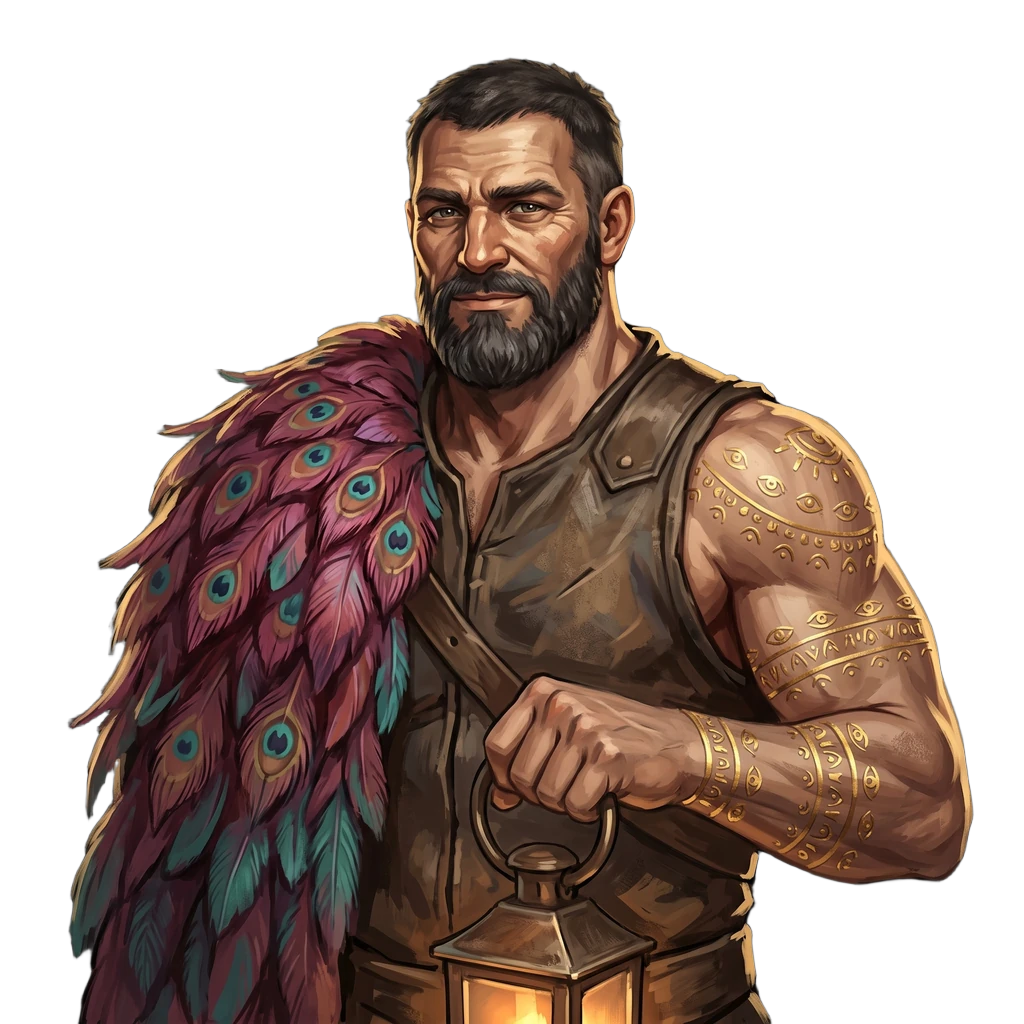
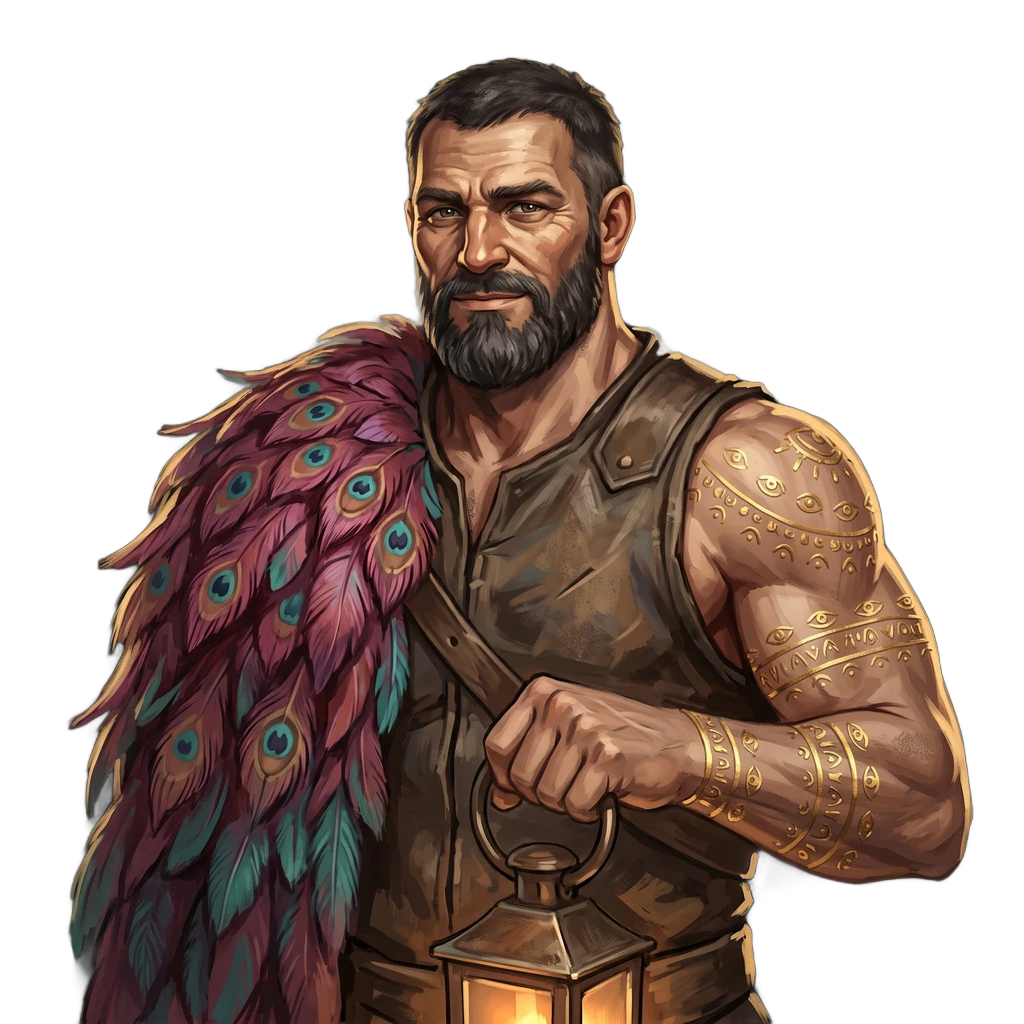
wip(#62): portraits cut, plaque marks, compact fixes

diff --git a/src/fleet/wall.css b/src/fleet/wall.css
@@ -289,20 +289,22 @@ button:focus-visible { outline: 2px solid var(--card-focus); outline-offset: 2px
 .has-figure .portrait .face { display: none; }
 .card:not(.has-figure) .portrait { position: absolute; left: 40px; top: 32px; }
 .marks { display: none; }
+/* A small gilded plaque at the figure's foot. */
 .has-figure .marks:not(:empty) {
   position: absolute;
   z-index: 2;
-  left: var(--fig-left);
+  left: calc(var(--fig-left) + var(--fig) / 2);
   bottom: 0;
-  width: var(--fig);
+  translate: -50% 0;
   display: flex;
-  justify-content: center;
   align-items: center;
   gap: 3px;
-  height: 22px;
+  height: 20px;
+  padding: 0 var(--space-3);
   background: var(--plinth-bg);
-  border-top: 1px solid var(--band-line);
-  box-shadow: 0 -6px 10px var(--plinth-bg);
+  border: 1px solid var(--band-line);
+  border-bottom: 0;
+  border-radius: 6px 6px 0 0;
   pointer-events: none;
 }
 .marks svg { width: 22px; height: 12px; overflow: visible; }
@@ -497,9 +499,10 @@ button:focus-visible { outline: 2px solid var(--card-focus); outline-offset: 2px
 [data-density="compact"] .card header,
 [data-density="compact"] .card .actions,
 [data-density="compact"] .card .foot { display: contents; }
-[data-density="compact"] .name { margin-left: var(--head-gap); font-size: 16px; }
+/* Compact keeps its own name face: the band's capitals run too wide beside the pill. */
+[data-density="compact"] .name { margin-left: var(--head-gap); font: 650 16px/1.15 var(--display); letter-spacing: -0.01em; }
 [data-density="compact"] .stage,
-[data-density="compact"] .marks,
+[data-density="compact"] .has-figure .marks:not(:empty),
 [data-density="compact"] .epithet,
 [data-density="compact"] .figure { display: none; }
 /* Compact keeps the round portrait and its ring; the look button covers it. */

diff --git a/src/fleet-style.test.js b/src/fleet-style.test.js
@@ -323,6 +323,7 @@ test("on a figure the crew rides the plinth and the ring steps aside; the waves 
   assert.match(css, /\.has-figure \.portrait \.ring,\s*\.has-figure \.portrait \.face \{ display: none; \}/);
   assert.match(css, /\[data-density="compact"\] \.has-figure \.portrait \.ring,\s*\[data-density="compact"\] \.has-figure \.portrait \.face \{ display: block; \}/);
   assert.match(css, /\.marks \{[^}]*display: none;/, "no marks unless a figure shows");
+  assert.match(css, /\[data-density="compact"\] \.has-figure \.marks:not\(:empty\),[^{]*\{ display: none; \}/, "nor on a compact card, whose ring shows them");
   const figure = css.match(/\n\.has-figure \.look \{([^}]*)\}/)?.[1] ?? "";
   const portrait = css.match(/\n\.has-figure \.aura \{([^}]*)\}/)?.[1] ?? "";
   assert.ok(Number(figure.match(/z-index: (-?\d+)/)[1]) > Number(portrait.match(/z-index: (-?\d+)/)[1]), "waves behind the figure");

diff --git a/scripts/cutout-portraits.py b/scripts/cutout-portraits.py
@@ -1,11 +1,12 @@
 """Cut a portrait's figure out of its painted backdrop, for the wall's header band.
 
 The ten kourai portraits ship with transparent cut-outs; the newer ones are
-painted on a dark backdrop. This runs BiRefNet (MIT, rembg's
-`birefnet-portrait` model) once on kourai-khryseai's 2048 px original
-(assets/avatars/originals/<name>.jpg) scaled to 1024 px, and writes
-assets/portraits/<name>-cutout.webp, which is committed, so
-scripts/cut-portraits.py needs no model. About ten minutes a portrait on CPU.
+painted on a dark backdrop. This runs rembg's `isnet-anime` model (IS-Net
+trained on illustrated characters, SkyTNT/anime-segmentation, Apache-2.0)
+once on kourai-khryseai's 2048 px original (assets/avatars/originals/<name>.jpg)
+scaled to 1024 px, and writes assets/portraits/<name>-cutout.webp, which is
+committed, so scripts/cut-portraits.py needs no model. About 3 s and 1.2 GB a
+portrait on CPU; BiRefNet cut as cleanly but needed over 3.5 GB.
 
 Usage: uv run --no-project --with "rembg[cpu]==2.0.85" --with pillow==12.3.0 python -I scripts/cutout-portraits.py <kourai-khryseai> <name>...
 """
@@ -21,7 +22,7 @@ PORTRAITS = ROOT / "assets" / "portraits"
 
 
 def main(kourai: Path, names: list[str]) -> None:
-    session = new_session("birefnet-portrait")
+    session = new_session("isnet-anime")
     for name in names:
         original = Image.open(kourai / "assets" / "avatars" / "originals" / f"{name}.jpg").convert("RGB")
         if original.size != (2048, 2048):

diff --git a/scripts/cut-portraits.py b/scripts/cut-portraits.py
@@ -58,7 +58,7 @@ FIGURE_SOURCE = (
 )
 NEW_FIGURE_SOURCE = (
     "AJ Barea, generated from the briefs in docs/characters/portrait-briefs.md; cut out of its backdrop "
-    "with BiRefNet (MIT, https://github.com/ZhengPeng7/BiRefNet) as assets/portraits/{name}-cutout.webp, "
+    "by scripts/cutout-portraits.py (rembg isnet-anime, Apache-2.0) as assets/portraits/{name}-cutout.webp, "
     "scaled to {size} px"
 )
 FULL_SOURCE = "kourai-khryseai assets/avatars/vn/{name}_neutral.png (https://github.com/ajbarea/kourai-khryseai), whole, {size} px"

diff --git a/scripts/test_wall_browser.py b/scripts/test_wall_browser.py
@@ -331,6 +331,12 @@ def band_clear(wall):
         )
         wall.check(not bad, f"band clear at {width}", bad)
         page.close()
+    page = wall.open(945, 1000, 16)
+    shown = page.evaluate(
+        "[...document.querySelectorAll('.marks, .stage, .epithet')].filter((e) => e.getBoundingClientRect().height > 0).length"
+    )
+    wall.check(shown == 0, "a compact card shows no band, epithet or plinth", shown)
+    page.close()
 
 
 def main() -> int:

diff --git a/IMPL.md b/IMPL.md
@@ -7,26 +7,27 @@ on the local branch `mock/card-theming-looks` (reference only). The plan of
 record is the #62 comment of 10-21.
 
 ## Tasks
-1. 📋 Cast: `epithet` and `head` [x, y, r] (fractions of the figure) per
+1. ✅ Cast: `epithet` and `head` [x, y, r] (fractions of the figure) per
    character; tests pin both.
-2. 📋 Assets: `scripts/cut-portraits.py` writes `<face>-figure.webp` (half-figure
+2. ✅ Assets: `scripts/cut-portraits.py` writes `<face>-figure.webp` (half-figure
    cut-out) and `<face>-full.webp` (#44's full portrait) with LICENSES entries.
    Ten kourai figures come from the kourai transparent PNGs; the five newer
-   ones from BiRefNet cut-outs committed as `assets/portraits/<name>-cutout.webp`
-   (`scripts/cutout-portraits.py`, run once).
-3. 📋 Model: `identity` adds epithet, figure, full; `card` adds `accentInk`
+   ones from isnet-anime cut-outs committed as `assets/portraits/<name>-cutout.webp`
+   (`scripts/cutout-portraits.py`, run once). BiRefNet needed over 3.5 GB a
+   run; two at once likely took WSL down on 10-21. isnet-anime: 3 s, 1.2 GB.
+3. ✅ Model: `identity` adds epithet, figure, full; `card` adds `accentInk`
    (`readableOn` in contrast.js), and the crew marks (`crewKinds`, shared with
    the ring).
-4. 📋 Band (wall.css, wall.html, wall.js): stage light capped under text, the
+4. ✅ Band (wall.css, wall.html, wall.js): stage light capped under text, the
    figure breaking the top edge, Cinzel nameplate, epithet with sprig, pill in
    the corner, crew marks on a plinth (the ring stays for medallions and
    Compact), speaking waves behind the head, needs amber light, dim light on
    quiet cards, arrival via `@starting-style`.
-5. 📋 #44 dialog: `.look` button on the figure (on the face in Compact), native
+5. ✅ #44 dialog: `.look` button on the figure (on the face in Compact), native
    `<dialog>`, focus back to the button or the wall.
-6. 📋 Compact: face 56 -> 68 px spanning header and meta, if the fit holds.
-7. 📋 Hesychia rotates now (keryx 0.9.3): README, `fleet-cast.test.js`, briefs.
-8. 📋 Docs, screenshots of all 15 at 1920 and 945, review, PR (Closes #62, #44),
+6. ✅ Compact: face 56 -> 64 px (fit bottoms 963 and 984 px); the name keeps its own face.
+7. ✅ Hesychia rotates now (keryx 0.9.3): README, `fleet-cast.test.js`, briefs.
+8. 📋 Docs ✅; screenshots of all 15 at 1920 and 945, review, PR (Closes #62, #44),
    merge, deploy, live check.
 
 ## Verify

diff --git a/README.md b/README.md
@@ -562,8 +562,8 @@ The portraits are files in `src/fleet/faces`, each listed in `LICENSES.json`,
 and `scripts/cut-portraits.py` cuts them: ten from kourai-khryseai, five from
 `assets/portraits/`. Each character has a round face at 96 and 192 px, a
 half-figure (`-figure.webp`) and the whole portrait (`-full.webp`). The five
-newer figures are cut from their painted backdrops by BiRefNet (MIT) through
-`scripts/cutout-portraits.py`, run once; its output is committed. The medallion is
+newer figures are cut from their painted backdrops by `scripts/cutout-portraits.py`
+(rembg's `isnet-anime` model, Apache-2.0), run once; its output is committed. The medallion is
 an SVG drawn in `src/fleet/medallion.js`. The overlay loads no library and
 fetches nothing.
 

diff --git a/ROADMAP.md b/ROADMAP.md
@@ -26,6 +26,10 @@ session that stops answering reads as silent, never as working.
   which reaches no hook; it is named by its folder for now.
 
 ## Completed
+- 2026-10-21: Comfortable cards wear their character (#62): a header band lit in
+  their colour with their cut-out figure breaking its top edge, a nameplate
+  with their epithet, crew marks on a plaque at the figure's foot, and the
+  whole portrait one click away (#44). Compact's face grew to 64 px.
 - 2026-10-20: Launch sessions as tmux windows from the wall, stable jump,
   Clear, gone, redesigned wall (#31, merged as #35).
 - 2026-10-20: Exercised every tray item live on Windows, by real mouse
